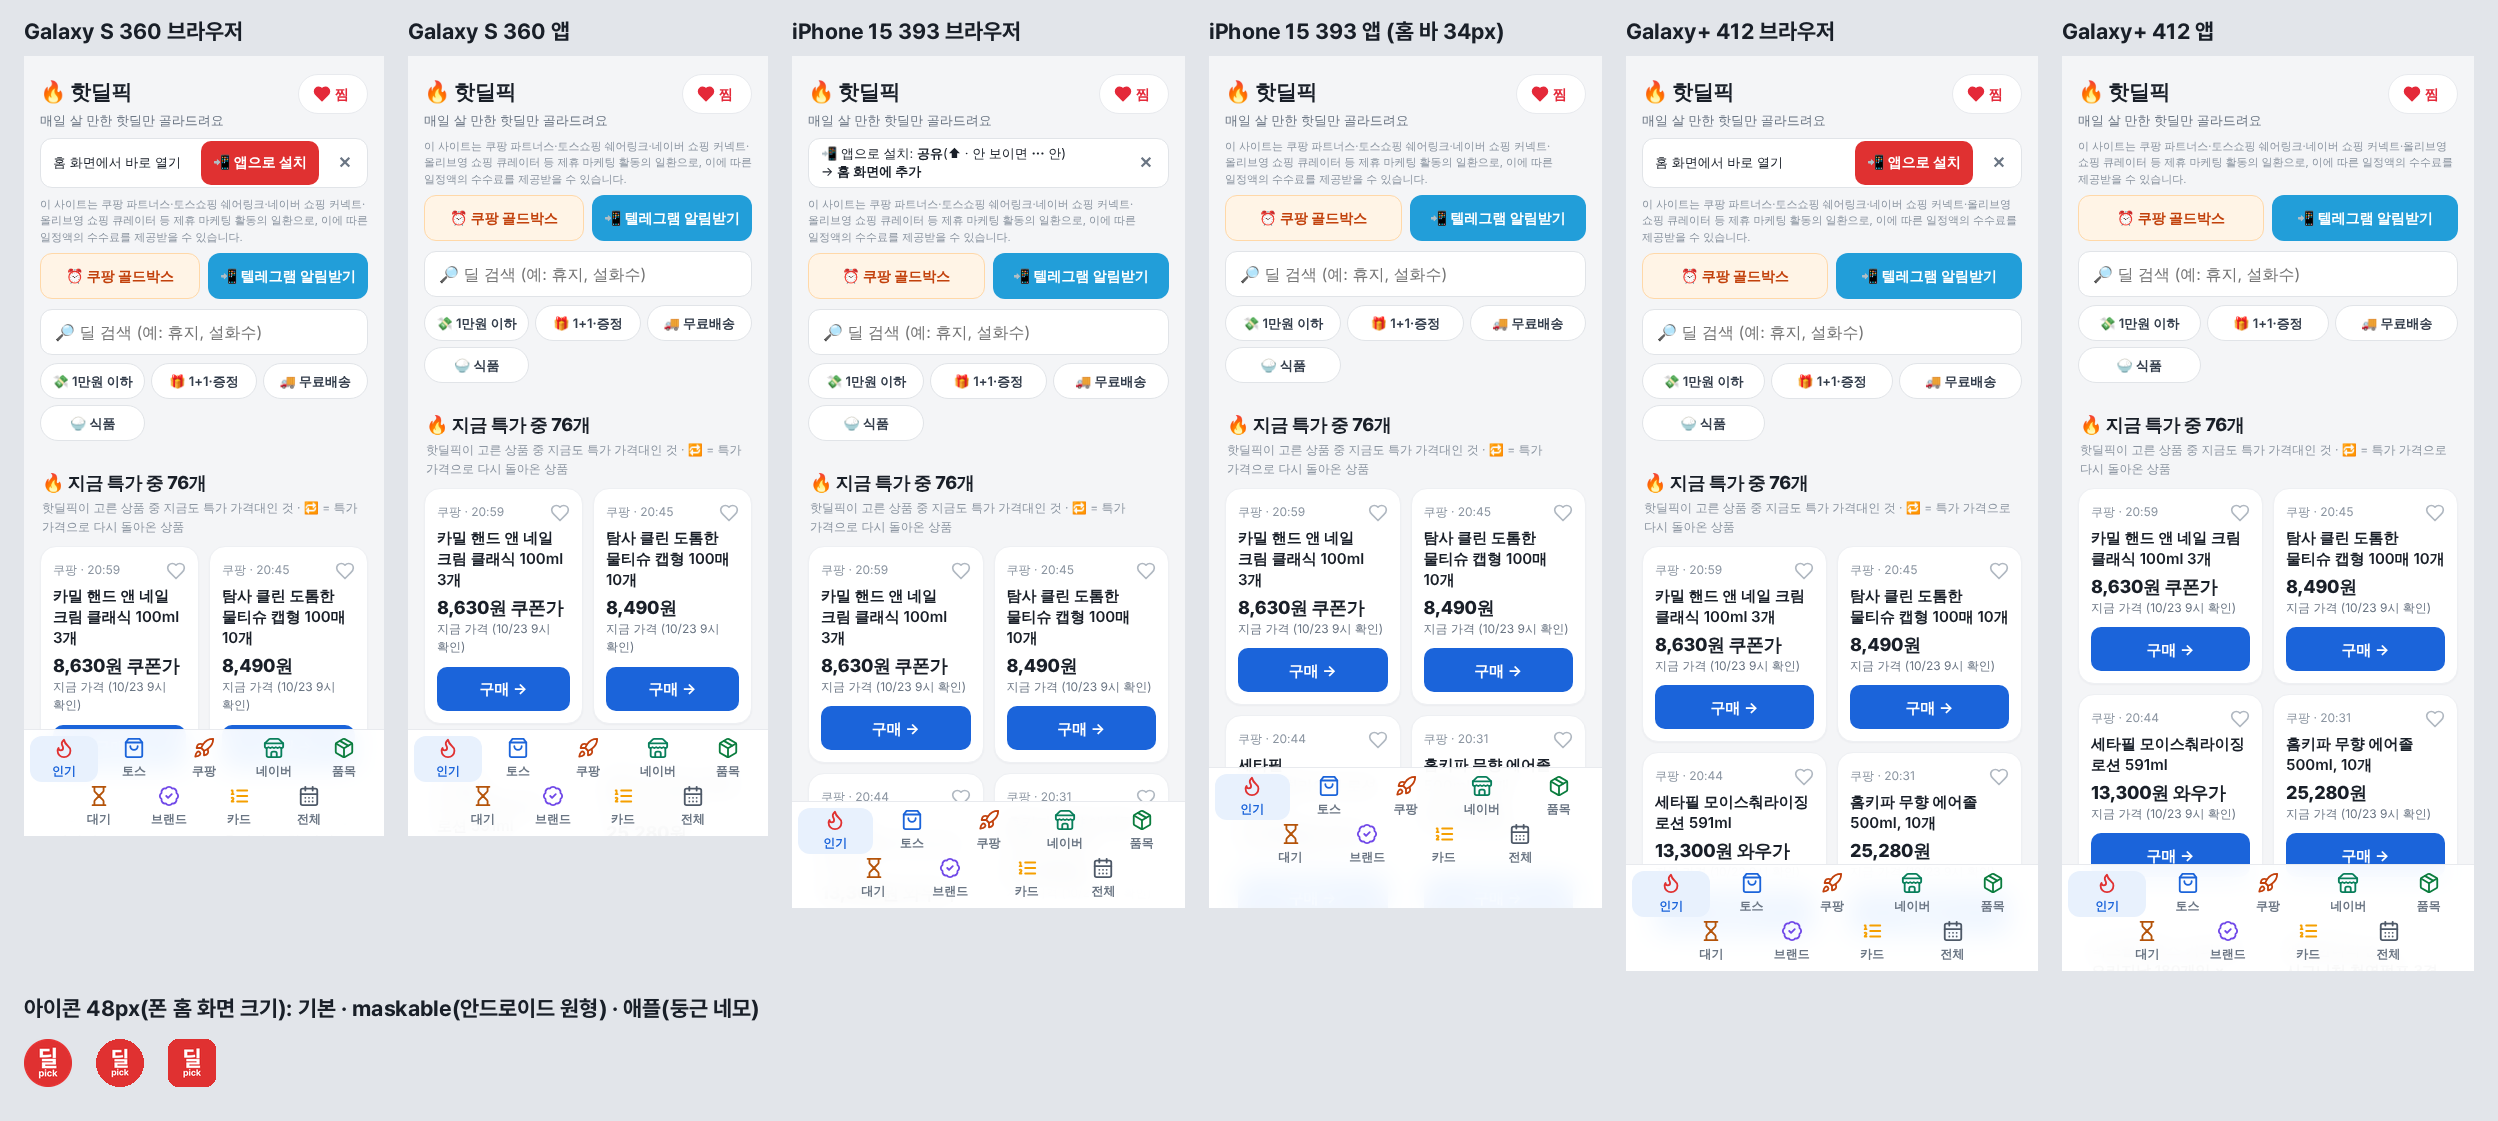
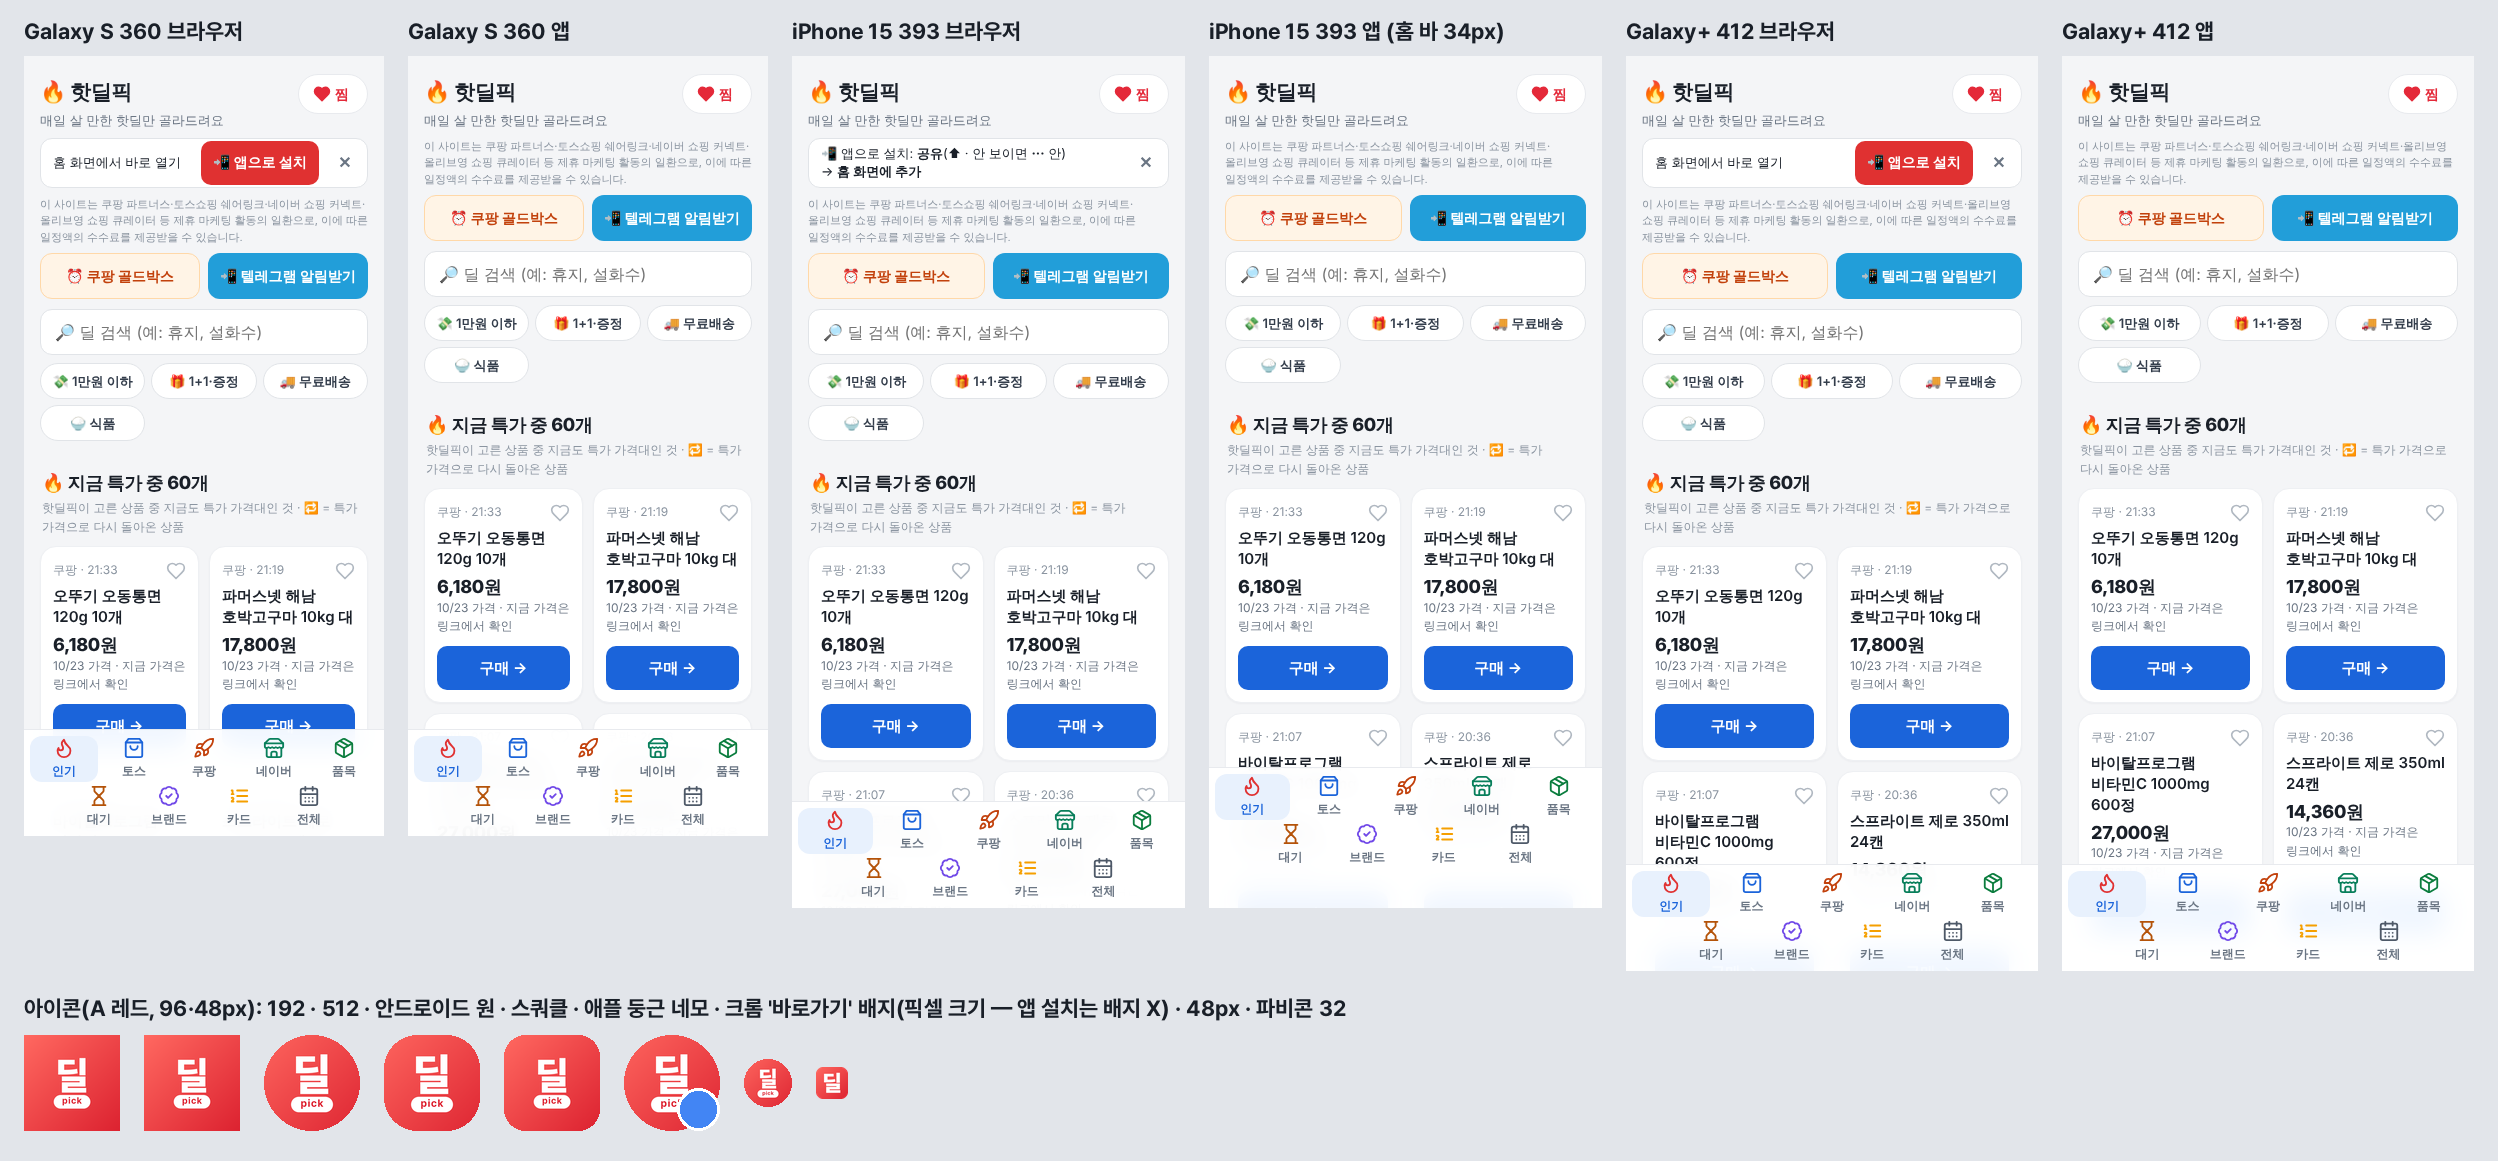
A 레드 리뷰: 크롬 바로가기 배지(픽셀 0.444)는 알약 끝·k를 가림 — 거짓 체크 뺌, 미리보기 = 폰이 보여 주는 부분 + 실제 배지 크기 · docstring IV · 캡처 다시
Claude-Session: https://claude.ai/code/session_0166LncLSude1PVe4eEqmcYn

diff --git a/test_pwa.js b/test_pwa.js
@@ -180,14 +180,17 @@ def mask(im, kind, r=.22):
     if kind == "c": dd.ellipse((0, 0, im.width - 1, im.height - 1), fill=255)
     else: dd.rounded_rectangle((0, 0, im.width - 1, im.height - 1), radius=int(im.width * r), fill=255)
     o = Image.new("RGBA", im.size, (0, 0, 0, 0)); o.paste(im, (0, 0), m); return o
-def badge(im):  # 크롬 '바로가기' 배지 자리(오른쪽 아래)
-    im = im.copy(); dd = ImageDraw.Draw(im); w = im.width; s = int(w * .34)
+def phone(n, k=96):  # 안드로이드가 보여 주는 부분: 크롬이 maskable 안전 영역(80%)을 66/108에 맞추고 런처는 가운데 72/108만 -> 원본 0.0636~0.9364
+    im = Image.open(icons + "/" + n).convert("RGBA"); a, b = round(im.width * .0636), round(im.width * .9364)
+    return im.crop((a, a, b, b)).resize((k, k), Image.LANCZOS)
+def badge(im):  # 크롬 '바로가기' 배지 = 픽셀(Launcher3) 아이콘 오른쪽 아래 0.444(ICON_BADGE_SCALE)
+    im = im.copy(); dd = ImageDraw.Draw(im); w = im.width; s = round(w * .444)
     dd.ellipse((w - s, w - s, w - 1, w - 1), fill=(255, 255, 255, 255)); dd.ellipse((w - s + 3, w - s + 3, w - 4, w - 4), fill=(66, 133, 244, 255)); return im
 y = top + max(i.height for i in ims) + 24
-d.text((G, y), "아이콘(A 레드, 폰 홈 화면 96·48px): 192 · 512 · maskable 원 · 스쿼클 · 애플 둥근 네모 · 크롬 배지 · 48px · 파비콘 32", font=f, fill=(25, 31, 40))
+d.text((G, y), "아이콘(A 레드, 96·48px): 192 · 512 · 안드로이드 원 · 스쿼클 · 애플 둥근 네모 · 크롬 '바로가기' 배지(픽셀 크기 — 앱 설치는 배지 X) · 48px · 파비콘 32", font=f, fill=(25, 31, 40))
 z = lambda n, k=96: Image.open(icons + "/" + n).convert("RGBA").resize((k, k), Image.LANCZOS)
-ic = [z("icon-192.png"), z("icon-512.png"), mask(z("icon-512-maskable.png"), "c"), mask(z("icon-512-maskable.png"), "r", .35),
-      mask(z("apple-touch-icon.png"), "r", .2237), badge(mask(z("icon-512-maskable.png"), "r")), mask(z("icon-512-maskable.png", 48), "c"),
+ic = [z("icon-192.png"), z("icon-512.png"), mask(phone("icon-512-maskable.png"), "c"), mask(phone("icon-512-maskable.png"), "r", .35),
+      mask(z("apple-touch-icon.png"), "r", .2237), badge(mask(phone("icon-512-maskable.png"), "c")), mask(phone("icon-512-maskable.png", 48), "c"),
       Image.open(icons + "/favicon-32.png").convert("RGBA")]
 x = G
 for im in ic: c.paste(im, (x, y + 40 + (96 - im.height) // 2), im); x += im.width + 24

diff --git a/test_hotdeal.py b/test_hotdeal.py
@@ -5284,7 +5284,6 @@ dl40, pl40 = bb40([p for p in px40 if p[1] < 0.6 * 512]), bb40([p for p in px40 
 assert abs((dl40[0] + dl40[2]) / 2 - 0.5) < 0.01 and abs((dl40[1] + dl40[3]) / 2 - 0.42) < 0.01 and 0.27 < dl40[3] - dl40[1] < 0.40, dl40  # '딜' 가운데 x · 글자 상자 가운데 y 0.42
 assert all(abs(a - b) < 0.006 for a, b in zip(pl40, (0.31, 0.625, 0.69, 0.765))), pl40  # 알약 0.38 × 0.14, 가운데 (0.5, 0.695)
 assert all(0.2 <= v <= 0.8 for v in dl40 + pl40) and all((x - 255.5) ** 2 + (y - 255.5) ** 2 <= (0.4 * 512) ** 2 for x, y in px40)  # 가운데 60% 안 = maskable 안전 영역(지름 80%)·원·둥근 네모로 깎아도 안 잘림
-assert not [p for p in px40 if p[0] > 0.7 * 512 and p[1] > 0.7 * 512]  # 크롬 바로가기 배지(오른쪽 아래)에 안 가림
 pk40 = [mk40.getpixel((x, y)) for x in range(int(0.36 * 512), int(0.64 * 512)) for y in range(int(0.63 * 512), int(0.76 * 512))]
 assert sum(near40(c, C40.PICK_RED, 6) for c in pk40) > 300  # 알약 안 빨간 'pick'
 for f40 in (f"{d40}/icons/favicon-32.png", f"{d40}/icons/favicon-16.png"):
